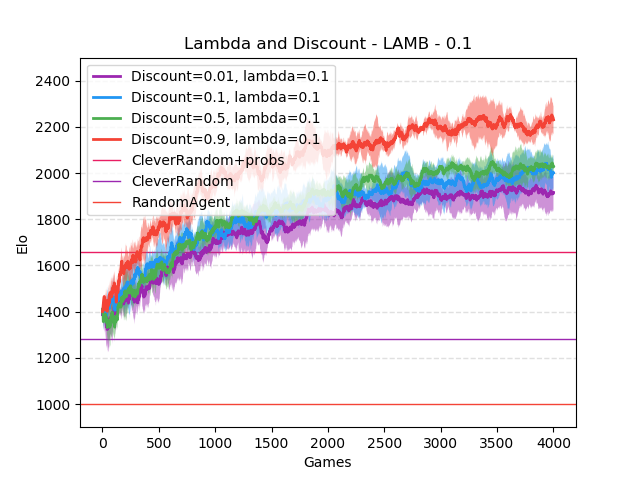
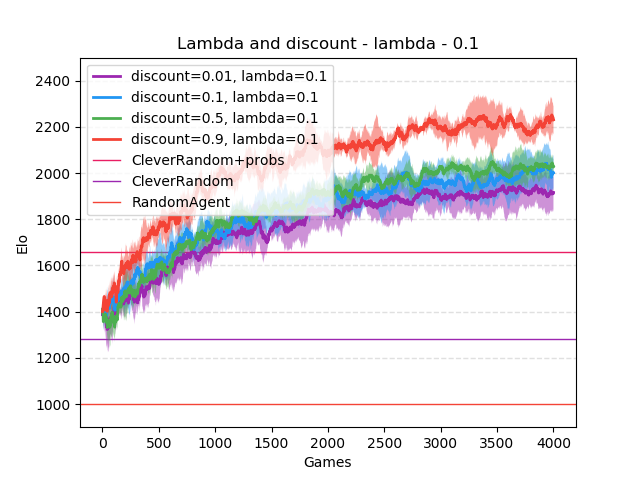
better_plot_names

Changed region(s): [[0.1875, 0.0625, 0.75, 0.4375]]

diff --git a/plotgenerators/Lamd0-99.py b/plotgenerators/Lamd0-99.py
@@ -1,9 +1,9 @@
 from plots import EloPlot, Data
 import numpy as np
 
-l = [('LAMBDA-0.99_DISCOUNT-0.01', 'Discount=0.01, lambda=0.99', '#9C27B0'), ('LAMBDA-0.99_DISCOUNT-0.1', 'Discount=0.1, lambda=0.99', '#2196F3'), ('LAMBDA-0.99_DISCOUNT-0.5', 'Discount=0.5, lambda=0.99', '#4CAF50'), ('LAMBDA-0.99_DISCOUNT-0.9', 'Discount=0.9, lambda=0.99', '#F44336'), ('LAMBDA-0.99_DISCOUNT-0.99', 'Discount=0.99, lambda=0.99', '#228B22')]
+l = [('LAMBDA-0.99_DISCOUNT-0.01', 'discount=0.01, lambda=0.99', '#9C27B0'), ('LAMBDA-0.99_DISCOUNT-0.1', 'discount=0.1, lambda=0.99', '#2196F3'), ('LAMBDA-0.99_DISCOUNT-0.5', 'discount=0.5, lambda=0.99', '#4CAF50'), ('LAMBDA-0.99_DISCOUNT-0.9', 'discount=0.9, lambda=0.99', '#F44336'), ('LAMBDA-0.99_DISCOUNT-0.99', 'discount=0.99, lambda=0.99', '#228B22')]
 
-with EloPlot(title=f'Lambda and Discount - LAMB - 0.99', saves=[f'GoodPlots/LambdaDiscountLAMBD099.png']) as plt:
+with EloPlot(title=f'Lambda and discount - lambda - 0.99', saves=[f'GoodPlots/LambdaDiscountLAMBD099.png']) as plt:
     for EloOverTime, name, agent, color in Data([f".\\outputs\\{a[0]}\\csv" for a in l], colors=[a[2] for a in l], elo=False):
         name = [a[1] for a in l if a[0] == name][0]
         plt.varPlot(plt, EloOverTime, name, color)

diff --git a/plotgenerators/Lamd0-01.py b/plotgenerators/Lamd0-01.py
@@ -1,9 +1,9 @@
 from plots import EloPlot, Data
 import numpy as np
 
-l = [('LAMBDA-0.01_DISCOUNT-0.01', 'Discount=0.01, lambda=0.01', '#9C27B0'), ('LAMBDA-0.01_DISCOUNT-0.1', 'Discount=0.1, lambda=0.01', '#2196F3'), ('LAMBDA-0.01_DISCOUNT-0.5', 'Discount=0.5, lambda=0.01', '#4CAF50'), ('LAMBDA-0.01_DISCOUNT-0.9', 'Discount=0.9, lambda=0.01', '#F44336'), ('LAMBDA-0.01_DISCOUNT-0.99', 'Discount=0.99, lambda=0.01', '#228B22')]
+l = [('LAMBDA-0.01_DISCOUNT-0.01', 'discount=0.01, lambda=0.01', '#9C27B0'), ('LAMBDA-0.01_DISCOUNT-0.1', 'discount=0.1, lambda=0.01', '#2196F3'), ('LAMBDA-0.01_DISCOUNT-0.5', 'discount=0.5, lambda=0.01', '#4CAF50'), ('LAMBDA-0.01_DISCOUNT-0.9', 'discount=0.9, lambda=0.01', '#F44336'), ('LAMBDA-0.01_DISCOUNT-0.99', 'discount=0.99, lambda=0.01', '#228B22')]
 
-with EloPlot(title=f'Lambda and Discount - lambda 0.01', saves=[f'GoodPlots/LambdaDiscountLAMBD001.png']) as plt:
+with EloPlot(title=f'Lambda and discount - lambda 0.01', saves=[f'GoodPlots/LambdaDiscountLAMBD001.png']) as plt:
     for EloOverTime, name, agent, color in Data([f".\\outputs\\{a[0]}\\csv" for a in l], colors=[a[2] for a in l], elo=False):
         name = [a[1] for a in l if a[0] == name][0]
         plt.varPlot(plt, EloOverTime, name, color)

diff --git a/plotgenerators/Lamd0-1.py b/plotgenerators/Lamd0-1.py
@@ -1,9 +1,9 @@
 from plots import EloPlot, Data
 import numpy as np
 
-l = [('LAMBDA-0.1_DISCOUNT-0.01', 'Discount=0.01, lambda=0.1', '#9C27B0'), ('LAMBDA-0.1_DISCOUNT-0.1', 'Discount=0.1, lambda=0.1', '#2196F3'), ('LAMBDA-0.1_DISCOUNT-0.5', 'Discount=0.5, lambda=0.1', '#4CAF50'), ('LAMBDA-0.1_DISCOUNT-0.9', 'Discount=0.9, lambda=0.1', '#F44336'), ('LAMBDA-0.1_DISCOUNT-0.99', 'Discount=0.99, lambda=0.1', '#228B22')]
+l = [('LAMBDA-0.1_DISCOUNT-0.01', 'discount=0.01, lambda=0.1', '#9C27B0'), ('LAMBDA-0.1_DISCOUNT-0.1', 'discount=0.1, lambda=0.1', '#2196F3'), ('LAMBDA-0.1_DISCOUNT-0.5', 'discount=0.5, lambda=0.1', '#4CAF50'), ('LAMBDA-0.1_DISCOUNT-0.9', 'discount=0.9, lambda=0.1', '#F44336'), ('LAMBDA-0.1_DISCOUNT-0.99', 'discount=0.99, lambda=0.1', '#228B22')]
 
-with EloPlot(title=f'Lambda and Discount - LAMB - 0.1', saves=[f'GoodPlots/LambdaDiscountLAMBD01.png']) as plt:
+with EloPlot(title=f'Lambda and discount - lambda - 0.1', saves=[f'GoodPlots/LambdaDiscountLAMBD01.png']) as plt:
     for EloOverTime, name, agent, color in Data([f".\\outputs\\{a[0]}\\csv" for a in l], colors=[a[2] for a in l], elo=False):
         name = [a[1] for a in l if a[0] == name][0]
         plt.varPlot(plt, EloOverTime, name, color)

diff --git a/plotgenerators/Lamd0-5.py b/plotgenerators/Lamd0-5.py
@@ -1,9 +1,9 @@
 from plots import EloPlot, Data
 import numpy as np
 
-l = [('LAMBDA-0.5_DISCOUNT-0.01', 'Discount=0.01, lambda=0.5', '#9C27B0'), ('LAMBDA-0.5_DISCOUNT-0.1', 'Discount=0.1, lambda=0.5', '#2196F3'), ('LAMBDA-0.5_DISCOUNT-0.5', 'Discount=0.5, lambda=0.5', '#4CAF50'), ('LAMBDA-0.5_DISCOUNT-0.9', 'Discount=0.9, lambda=0.5', '#F44336'), ('LAMBDA-0.5_DISCOUNT-0.99', 'Discount=0.99, lambda=0.5', '#228B22')]
+l = [('LAMBDA-0.5_DISCOUNT-0.01', 'discount=0.01, lambda=0.5', '#9C27B0'), ('LAMBDA-0.5_DISCOUNT-0.1', 'discount=0.1, lambda=0.5', '#2196F3'), ('LAMBDA-0.5_DISCOUNT-0.5', 'discount=0.5, lambda=0.5', '#4CAF50'), ('LAMBDA-0.5_DISCOUNT-0.9', 'discount=0.9, lambda=0.5', '#F44336'), ('LAMBDA-0.5_DISCOUNT-0.99', 'discount=0.99, lambda=0.5', '#228B22')]
 
-with EloPlot(title=f'Lambda and Discount - LAMB - 0.5', saves=[f'GoodPlots/LambdaDiscountLAMBD05.png']) as plt:
+with EloPlot(title=f'Lambda and discount - lambda - 0.5', saves=[f'GoodPlots/LambdaDiscountLAMBD05.png']) as plt:
     for EloOverTime, name, agent, color in Data([f".\\outputs\\{a[0]}\\csv" for a in l], colors=[a[2] for a in l], elo=False):
         name = [a[1] for a in l if a[0] == name][0]
         plt.varPlot(plt, EloOverTime, name, color)

diff --git a/plotgenerators/Lamd0-9.py b/plotgenerators/Lamd0-9.py
@@ -1,9 +1,9 @@
 from plots import EloPlot, Data
 import numpy as np
 
-l = [('LAMBDA-0.9_DISCOUNT-0.01', 'Discount=0.01, lambda=0.9', '#9C27B0'), ('LAMBDA-0.9_DISCOUNT-0.1', 'Discount=0.1, lambda=0.9', '#2196F3'), ('LAMBDA-0.9_DISCOUNT-0.5', 'Discount=0.5, lambda=0.9', '#4CAF50'), ('LAMBDA-0.9_DISCOUNT-0.9', 'Discount=0.9, lambda=0.9', '#F44336'), ('LAMBDA-0.9_DISCOUNT-0.99', 'Discount=0.99, lambda=0.9', '#228B22')]
+l = [('LAMBDA-0.9_DISCOUNT-0.01', 'discount=0.01, lambda=0.9', '#9C27B0'), ('LAMBDA-0.9_DISCOUNT-0.1', 'discount=0.1, lambda=0.9', '#2196F3'), ('LAMBDA-0.9_DISCOUNT-0.5', 'discount=0.5, lambda=0.9', '#4CAF50'), ('LAMBDA-0.9_DISCOUNT-0.9', 'discount=0.9, lambda=0.9', '#F44336'), ('LAMBDA-0.9_dISCOUNT-0.99', 'Discount=0.99, lambda=0.9', '#228B22')]
 
-with EloPlot(title=f'Lambda and Discount - LAMB - 0.9', saves=[f'GoodPlots/LambdaDiscountLAMBD09.png']) as plt:
+with EloPlot(title=f'Lambda and discount - lambda - 0.9', saves=[f'GoodPlots/LambdaDiscountLAMBD09.png']) as plt:
     for EloOverTime, name, agent, color in Data([f".\\outputs\\{a[0]}\\csv" for a in l], colors=[a[2] for a in l], elo=False):
         name = [a[1] for a in l if a[0] == name][0]
         plt.varPlot(plt, EloOverTime, name, color)
